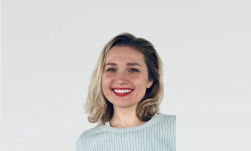
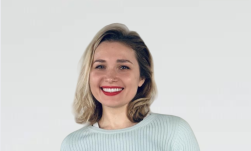
change address and photo

diff --git a/app.vue b/app.vue
@@ -6,7 +6,7 @@
       <services />
       <med-a-i />
       <team />
-      <p :class="$style.info">ИНН 7710641442; ОГРН 5067746338732; адрес: РФ, 123056, г. Москва,<br/> Грузинский пер., д 3А.</p>
+      <p :class="$style.info">ИНН 231240027989; ОГРН&nbsp;231240027989; адрес:&nbsp;Казахстан, город Алматы, Медеуский район, улица Зенкова, дом 32, кв. 1, почтовый индекс 050000</p>
     </div>
   </div>
 </template>
@@ -74,8 +74,6 @@ input, button {
 
 .info {
   color: #CCCCCC;
-  font-size: 16px;
-  margin: 4px 25px 0 0;
   @media screen and (min-width: 768px) {
     display: none;
   }

diff --git a/components/LeftPanel.vue b/components/LeftPanel.vue
@@ -11,7 +11,7 @@
       </ul>
     </nav>
     </div>
-    <p :class="$style.info">ИНН 7710641442; ОГРН 5067746338732; адрес: РФ, 123056, г. Москва, Грузинский пер., д 3А.</p>
+    <p :class="$style.info">ИНН 231240027989; ОГРН&nbsp;231240027989; адрес:&nbsp;Казахстан, город Алматы, Медеуский район, улица Зенкова, дом 32, кв. 1, почтовый индекс 050000</p>
   </div>
 </template>
 
@@ -61,8 +61,6 @@
 
 .info {
   color: #CCCCCC;
-  font-size: 16px;
-  padding: 24px 36px 0 0;
   @media screen and (max-width: 768px) {
     display: none;
   }
